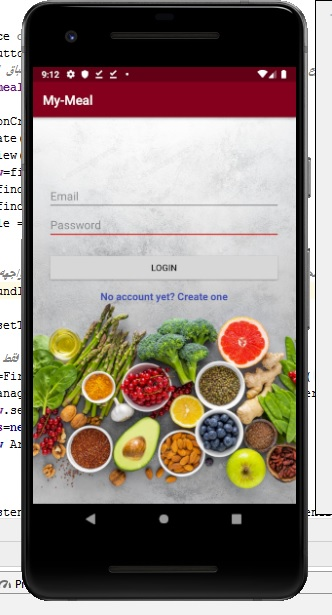
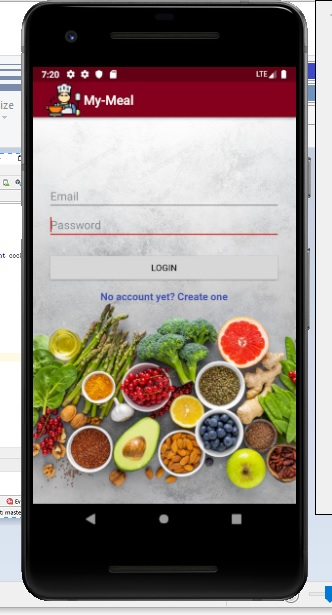
fix edit problem

diff --git a/app/src/main/java/com/apps/my_meal/MyPost_adpter.java b/app/src/main/java/com/apps/my_meal/MyPost_adpter.java
@@ -9,8 +9,10 @@ import android.view.LayoutInflater;
 import android.view.View;
 import android.view.ViewGroup;
 import android.widget.Button;
+import android.widget.EditText;
 import android.widget.ImageView;
 import android.widget.RatingBar;
+import android.widget.Spinner;
 import android.widget.TextView;
 import android.widget.Toast;
 
@@ -38,6 +40,10 @@ public class MyPost_adpter extends RecyclerView.Adapter<MyPost_adpter.mypost> {
     private  Context context;
     private List<UploadImage> uploadImages;
     private String meal_ID;
+
+    private UploadImage editpost;
+
+
     public MyPost_adpter(Context context, List<UploadImage> uploadImages) {
         this.context = context;
         this.uploadImages = uploadImages;
@@ -60,12 +66,17 @@ public class MyPost_adpter extends RecyclerView.Adapter<MyPost_adpter.mypost> {
 
 
 
+
+
+
         Picasso.get().load(uploadImages.get(position).getImgUrl()).into(holder.imageView);
         holder.name.setText(uploadImages.get(position).getMeal_name());
-        holder.des.setText("Recipe: "+uploadImages.get(position).getMeal_des());
-        holder.calories.setText("Calories: "+uploadImages.get(position).getMeal_calories());
-        holder.cocking_time.setText("Cocking time: "+uploadImages.get(position).getCocking_time());
+        holder.des.setText(uploadImages.get(position).getMeal_des());
+        holder.calories.setText(""+uploadImages.get(position).getMeal_calories());
+        holder.cocking_time.setText(""+uploadImages.get(position).getCocking_time());
         // holder.rating.setRating(Float.valueOf(uploadImages.get(position).getRating()));
+        holder.editpost.setImageResource(holder.edit);
+
         meal_ID=uploadImages.get(position).getMeal_ID();
         holder.query= FirebaseDatabase.getInstance().getReference("Users").orderByChild("user_ID").equalTo(uploadImages.get(position).getUSER_ID());
         holder.query.addListenerForSingleValueEvent(new ValueEventListener() {
@@ -83,6 +94,29 @@ public class MyPost_adpter extends RecyclerView.Adapter<MyPost_adpter.mypost> {
         });
 
 
+        holder.save.setOnClickListener(new View.OnClickListener() {
+            @Override
+            public void onClick(View v) {
+                if(holder.edit!=R.drawable.ic_editpost){
+                    holder.name.setEnabled(false);
+                    holder.des.setEnabled(false);
+                    holder.cocking_time.setEnabled(false);
+                    holder.calories.setEnabled(false);
+                    holder.editpost.setImageResource(R.drawable.ic_editpost);
+                    holder.edit=R.drawable.ic_editpost;
+                    holder.save.setImageResource(R.drawable.ic_save);
+
+                    editpost=new UploadImage(MainActivity.USER_ID.trim(),meal_ID.trim(),uploadImages.get(position).getImgUrl().trim(), holder.name.getText().toString().trim() , holder.des.getText().toString().trim(),uploadImages.get(position).getMeal_type(),Integer.parseInt(holder.cocking_time.getText().toString().trim()),Integer.parseInt(holder.calories.getText().toString().trim()), uploadImages.get(position).getRating(),uploadImages.get(position).getLikes());
+                    DatabaseReference databaseReference=FirebaseDatabase.getInstance().getReference("uploads");
+                    databaseReference.child(meal_ID).setValue(editpost);
+
+
+
+
+                }
+            }
+        });
+
 
 
 
@@ -98,14 +132,17 @@ public class MyPost_adpter extends RecyclerView.Adapter<MyPost_adpter.mypost> {
     public class mypost extends RecyclerView.ViewHolder {
 
 
-        ImageView imageView,love,editpost,deletpost;
-        TextView name, des,publisher, calories,cocking_time,Likes;
+        ImageView imageView,love,editpost,deletpost,save;
+        TextView publisher,Likes;
+        EditText name,des,calories,cocking_time;
+
         RatingBar rating;
         CardView cardView;
         Users users;
         Query query;
         boolean flag=true;
         private boolean mHasDoubleClicked = false;
+        int edit;
 
 
         private static final long DOUBLE_PRESS_INTERVAL = 250; // in millis
@@ -128,7 +165,11 @@ public class MyPost_adpter extends RecyclerView.Adapter<MyPost_adpter.mypost> {
             publisher=itemView.findViewById(R.id.publisher);
             cocking_time=itemView.findViewById(R.id.cocking_time);
             Likes=itemView.findViewById(R.id.likes);
+            save=itemView.findViewById(R.id.save);
+
             cardView=itemView.findViewById(R.id.mycardview);
+
+            edit=R.drawable.ic_editpost;
 
 
 
@@ -189,8 +230,44 @@ public class MyPost_adpter extends RecyclerView.Adapter<MyPost_adpter.mypost> {
                 @Override
                 public void onClick(View v) {
 
+
+                    if(edit==R.drawable.ic_editpost){
+                        editpost.setImageResource(R.drawable.ic_disedit);
+                        edit=R.drawable.ic_disedit;
+                        save.setImageResource(R.drawable.ic_saveit);
+
+                        name.setEnabled(true);
+                        des.setEnabled(true);
+                        cocking_time.setEnabled(true);
+                        calories.setEnabled(true);
+
+
+
+                    }else {
+                        editpost.setImageResource(R.drawable.ic_editpost);
+                        edit=R.drawable.ic_editpost;
+                        save.setImageResource(R.drawable.ic_save);
+
+                        name.setEnabled(false);
+                        des.setEnabled(false);
+                        cocking_time.setEnabled(false);
+                        calories.setEnabled(false);
+
+
+
+
+                    }
+
+
+
+
+
+
+
                 }
             });
+
+
 
             deletpost.setOnClickListener(new View.OnClickListener() {
                 @Override

diff --git a/app/src/main/java/com/apps/my_meal/signup.java b/app/src/main/java/com/apps/my_meal/signup.java
@@ -3,6 +3,7 @@ package com.apps.my_meal;
 import android.os.Bundle;
 
 import androidx.annotation.Nullable;
+import androidx.appcompat.app.ActionBar;
 import androidx.appcompat.app.AppCompatActivity;
 import android.content.Intent;
 import android.os.Bundle;
@@ -34,6 +35,10 @@ public class signup extends AppCompatActivity {
     protected void onCreate(@Nullable Bundle savedInstanceState) {
         super.onCreate(savedInstanceState);
         setContentView(R.layout.signup);
+        ActionBar actionBar = getSupportActionBar();
+        actionBar.setDisplayShowHomeEnabled(true);
+        actionBar.setIcon(R.drawable.logos);
+
         input_nick=findViewById(R.id.input_nick);
         btn_signup= (Button) findViewById(R.id.btn_signup);
         input_email=(EditText)findViewById(R.id.input_email);
